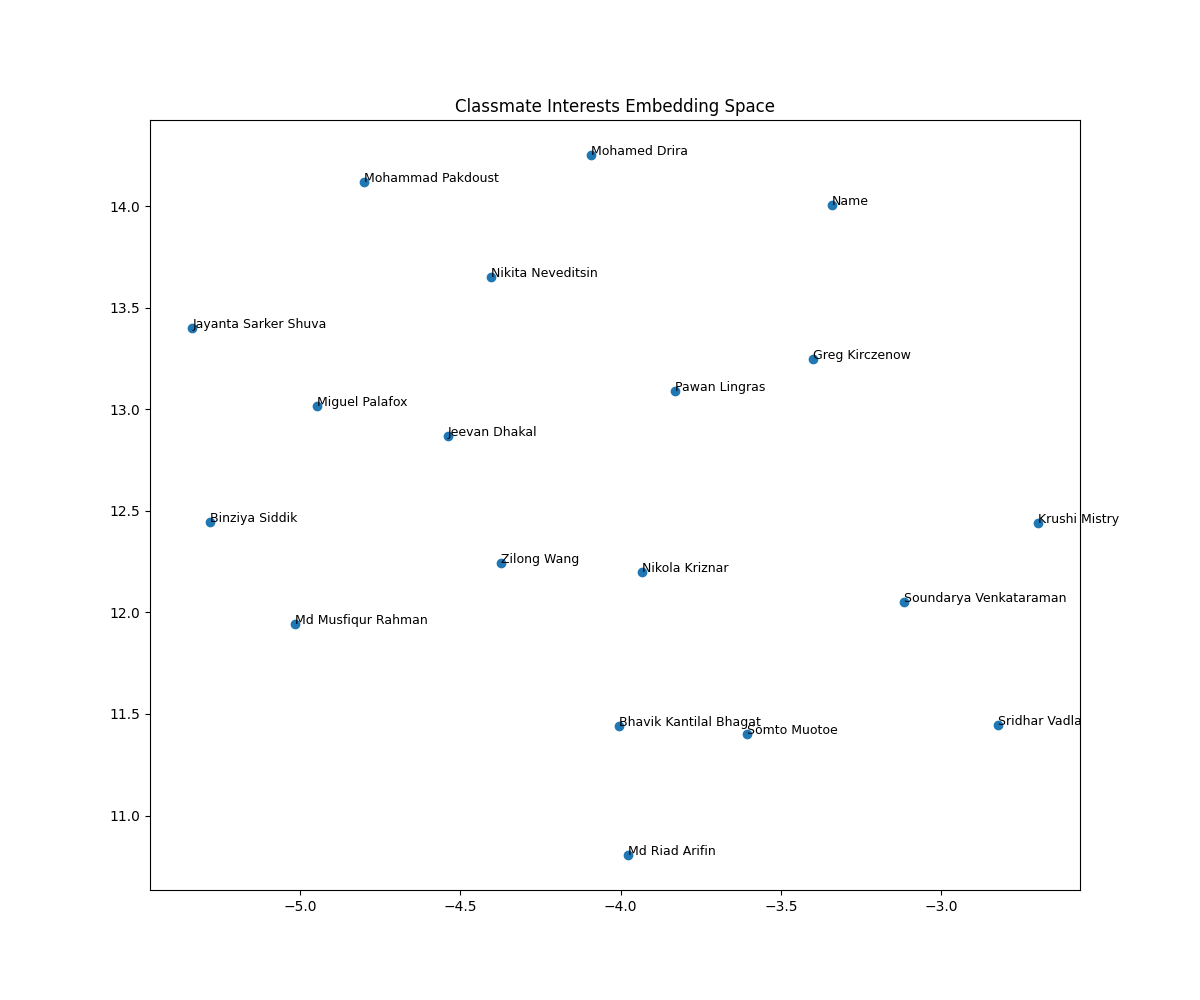
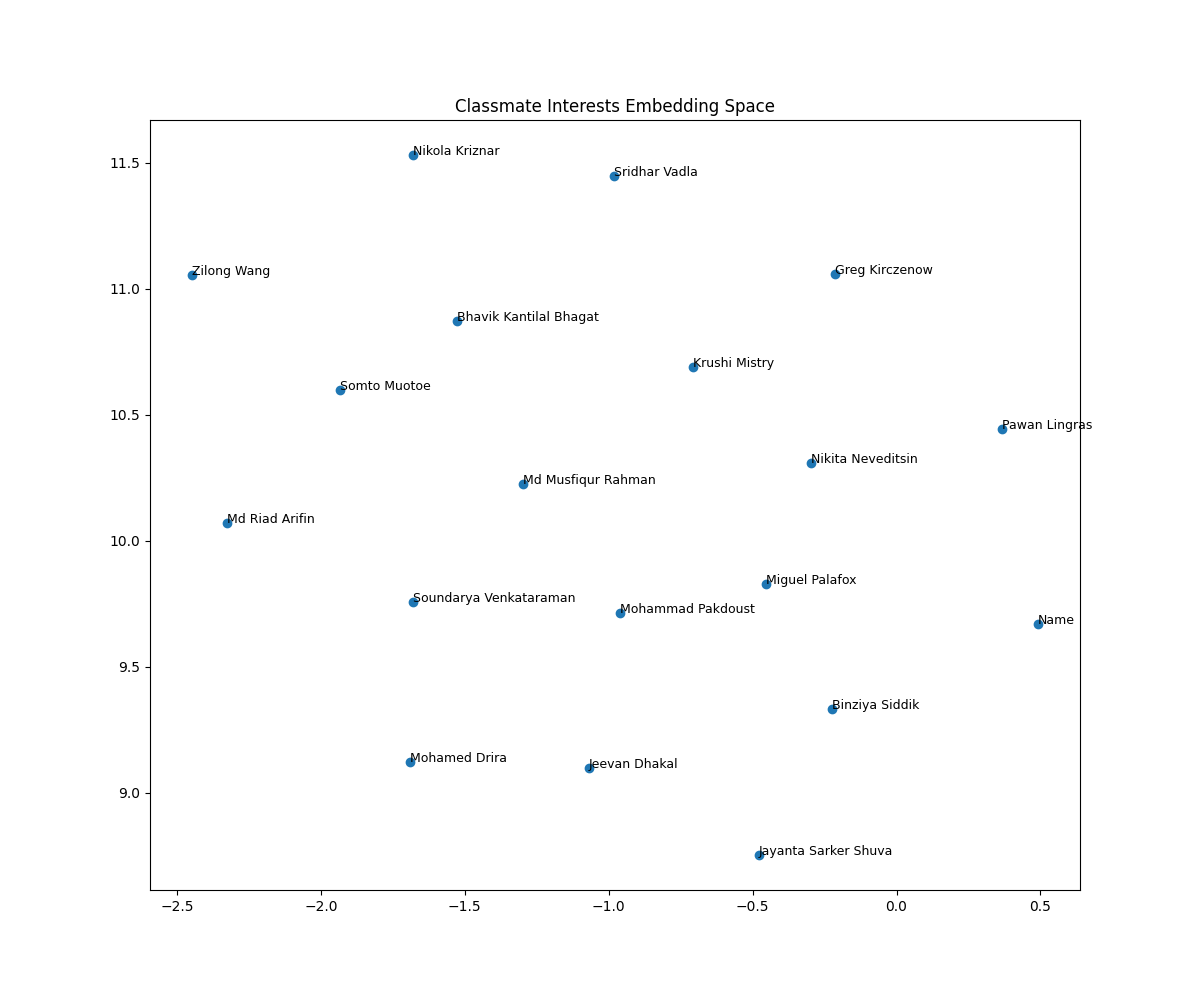
Embedding Sensitivity Tests

diff --git a/model_comparison.py b/model_comparison.py
@@ -1,0 +1,36 @@
+import json
+from scipy.spatial.distance import cosine
+from scipy.stats import spearmanr
+
+# Set YOUR name here as it appears in the CSV
+MY_NAME = "Jayanta Sarker Shuva" 
+
+def get_rankings(embeddings_dict, target_name):
+    distances = []
+    target_vec = embeddings_dict[target_name]
+    for name, vec in embeddings_dict.items():
+        if name != target_name:
+            distances.append((name, cosine(target_vec, vec))) # Cosine distance
+    # Sort closest to farthest
+    distances.sort(key=lambda x: x[1])
+    return [name for name, dist in distances]
+
+# Load both embeddings
+with open("embeddings_minilm.json", "r") as f:
+    emb_model1 = json.load(f)
+with open("embeddings_paraphrase.json", "r") as f:
+    emb_model2 = json.load(f)
+
+rankings1 = get_rankings(emb_model1, MY_NAME)
+rankings2 = get_rankings(emb_model2, MY_NAME)
+
+print(f"Model 1 closest: {rankings1[:3]}")
+print(f"Model 2 closest: {rankings2[:3]}")
+
+# Convert names to numerical ranks for correlation
+rank_dict1 = {name: i for i, name in enumerate(rankings1)}
+ranks1_num = [rank_dict1[name] for name in rankings1]
+ranks2_num = [rank_dict1[name] for name in rankings2] # Rank relative to Model 1's order
+
+correlation, _ = spearmanr(ranks1_num, ranks2_num)
+print(f"Spearman Rank Correlation: {correlation:.4f}")

diff --git a/main.py b/main.py
@@ -9,7 +9,7 @@ def main():
     df = pd.read_csv("classmates.csv", sep="\t", header=None, names=["Name", "Description"])
     
     # Generate Embeddings
-    model = SentenceTransformer('all-MiniLM-L6-v2')
+    model = SentenceTransformer('paraphrase-MiniLM-L6-v2') # Updated model
     embeddings = model.encode(df['Description'].tolist())
     
     # Save embeddings to JSON
